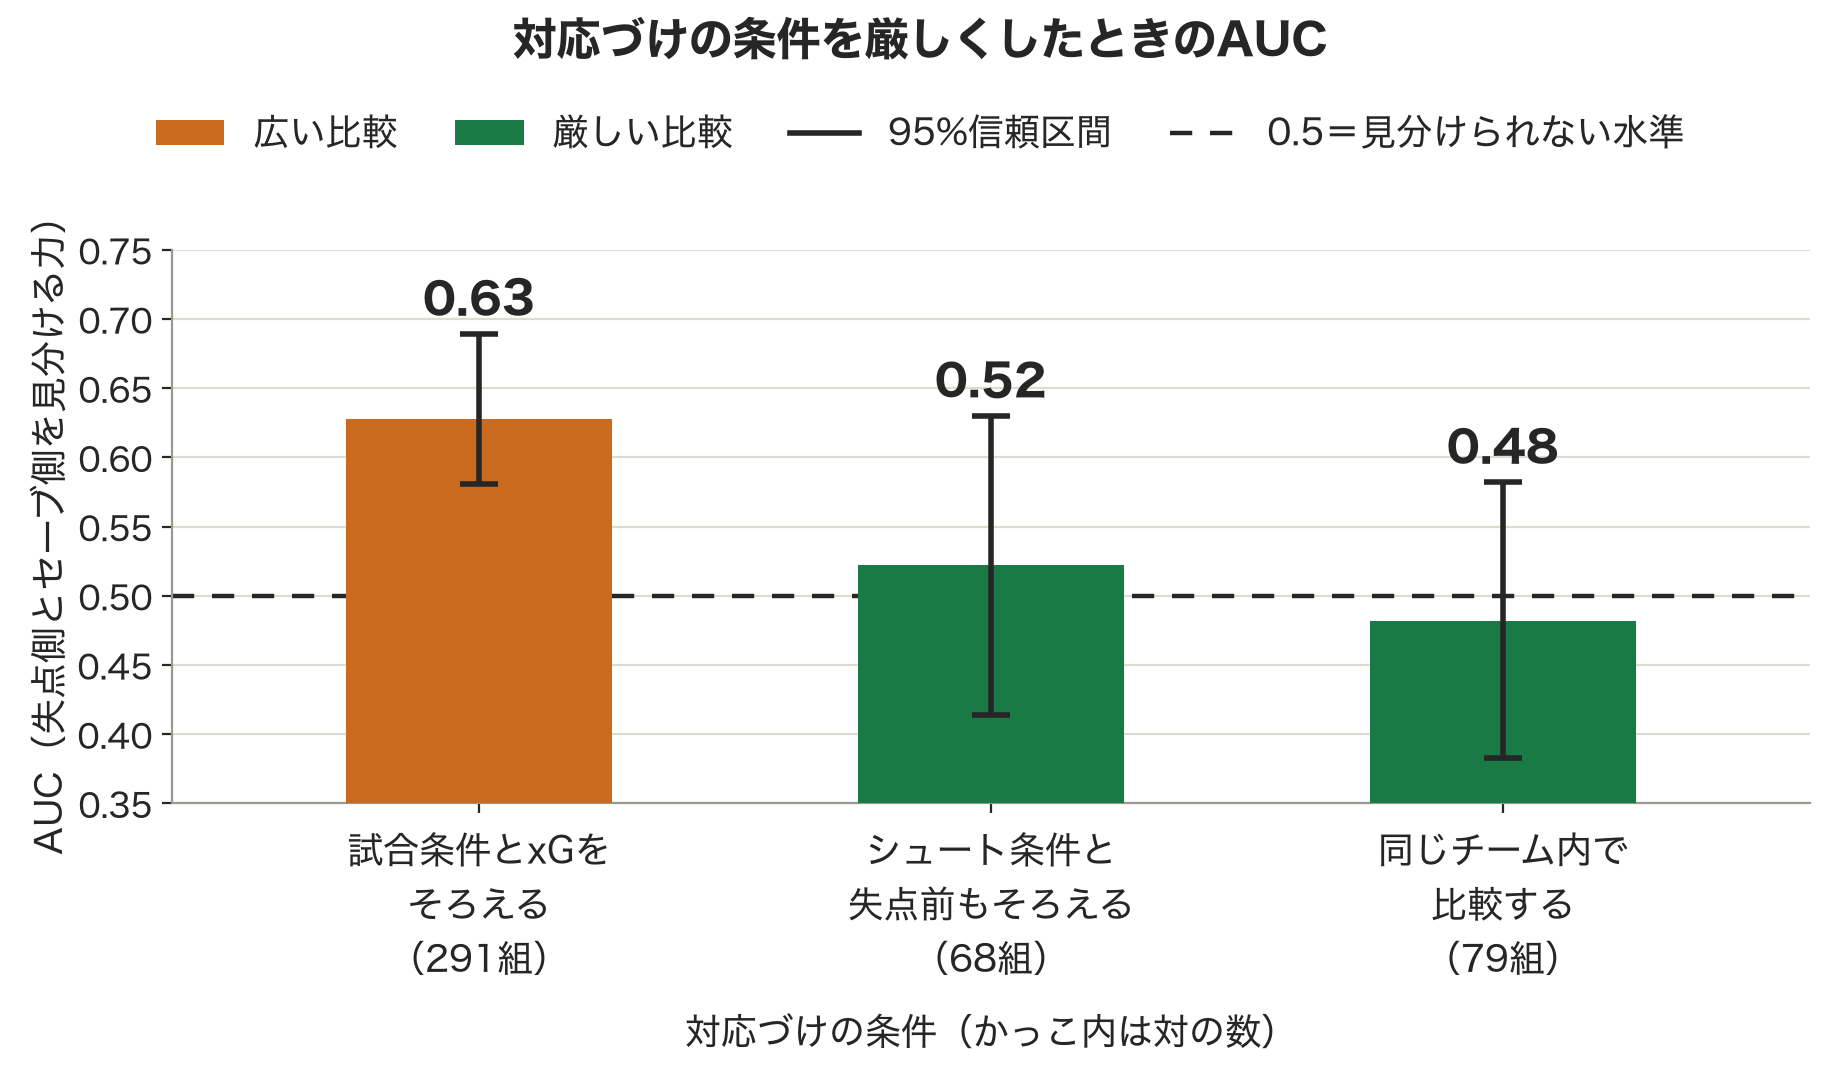
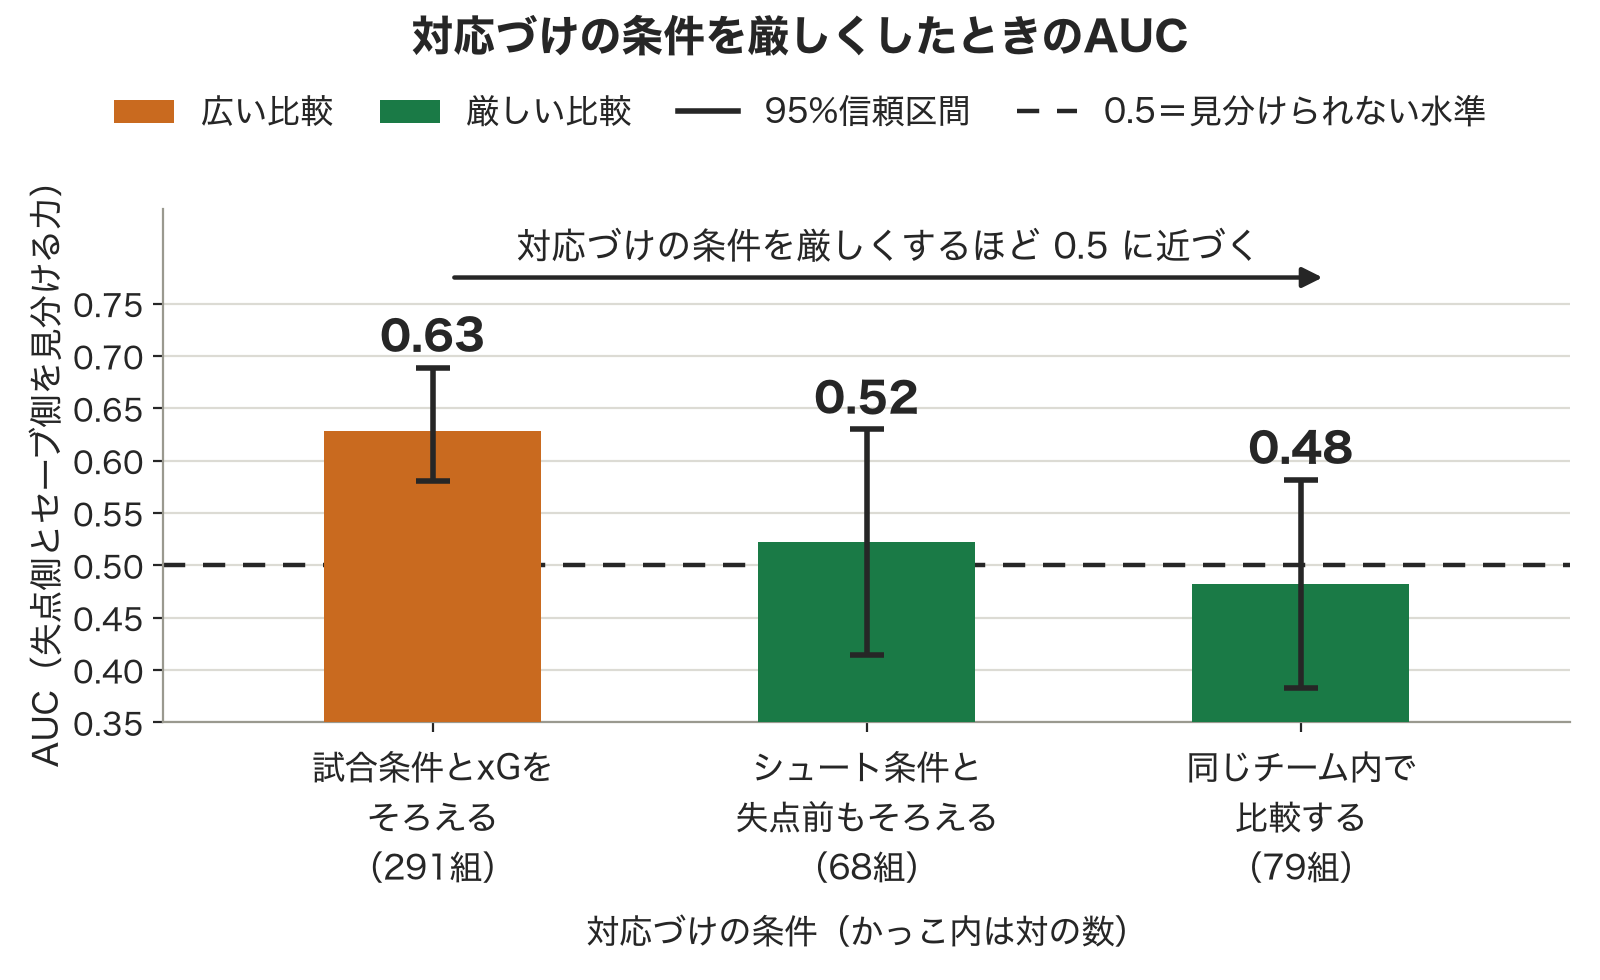
fix

diff --git a/src/2026-dsx-bravo/main.tex b/src/2026-dsx-bravo/main.tex
@@ -26,10 +26,18 @@
 \section{背景・⽬的}
 ＜ここに社会問題や社会背景，それによって導かれた目的や着目した要因，他の関連研究や他に検討した内容等を記述する．＞
 
+% アウトライン（Issue #1）で追加した章．本文は Issue #3 の担当者が記述する．
+\section{関連研究}
+＜心理的モメンタムに関する先行研究（Redwood-Brown et al. 2018／Den Hartigh et al. 2019）と，本研究の位置づけを記述する．Issue \#3 参照．＞
+
 \section{対象としたデータセット}
 ＜ここに，対象としたデータセットについての説明を書く．データセットの内容，特徴，出自（どこからもってきたのか），データを構成する属性，データの量を記述する．データの一部を，図として掲示することが望ましい．＞
 
 % URLを記述する際は，\url{https://..../}のようにするとよい
+
+% アウトライン（Issue #1）で追加した章．本文は Issue #5 の担当者が記述する．
+\section{中間発表までの取り組みと課題}
+＜中間発表時のプレッシャー回数の比較と，その後に判明したキックオフ再開の構造による判別の押し上げ（AUC 0.703 の正体）までを記述する．Issue \#5 参照．＞
 
 \section{⼿法}
 \label{sec:method}
